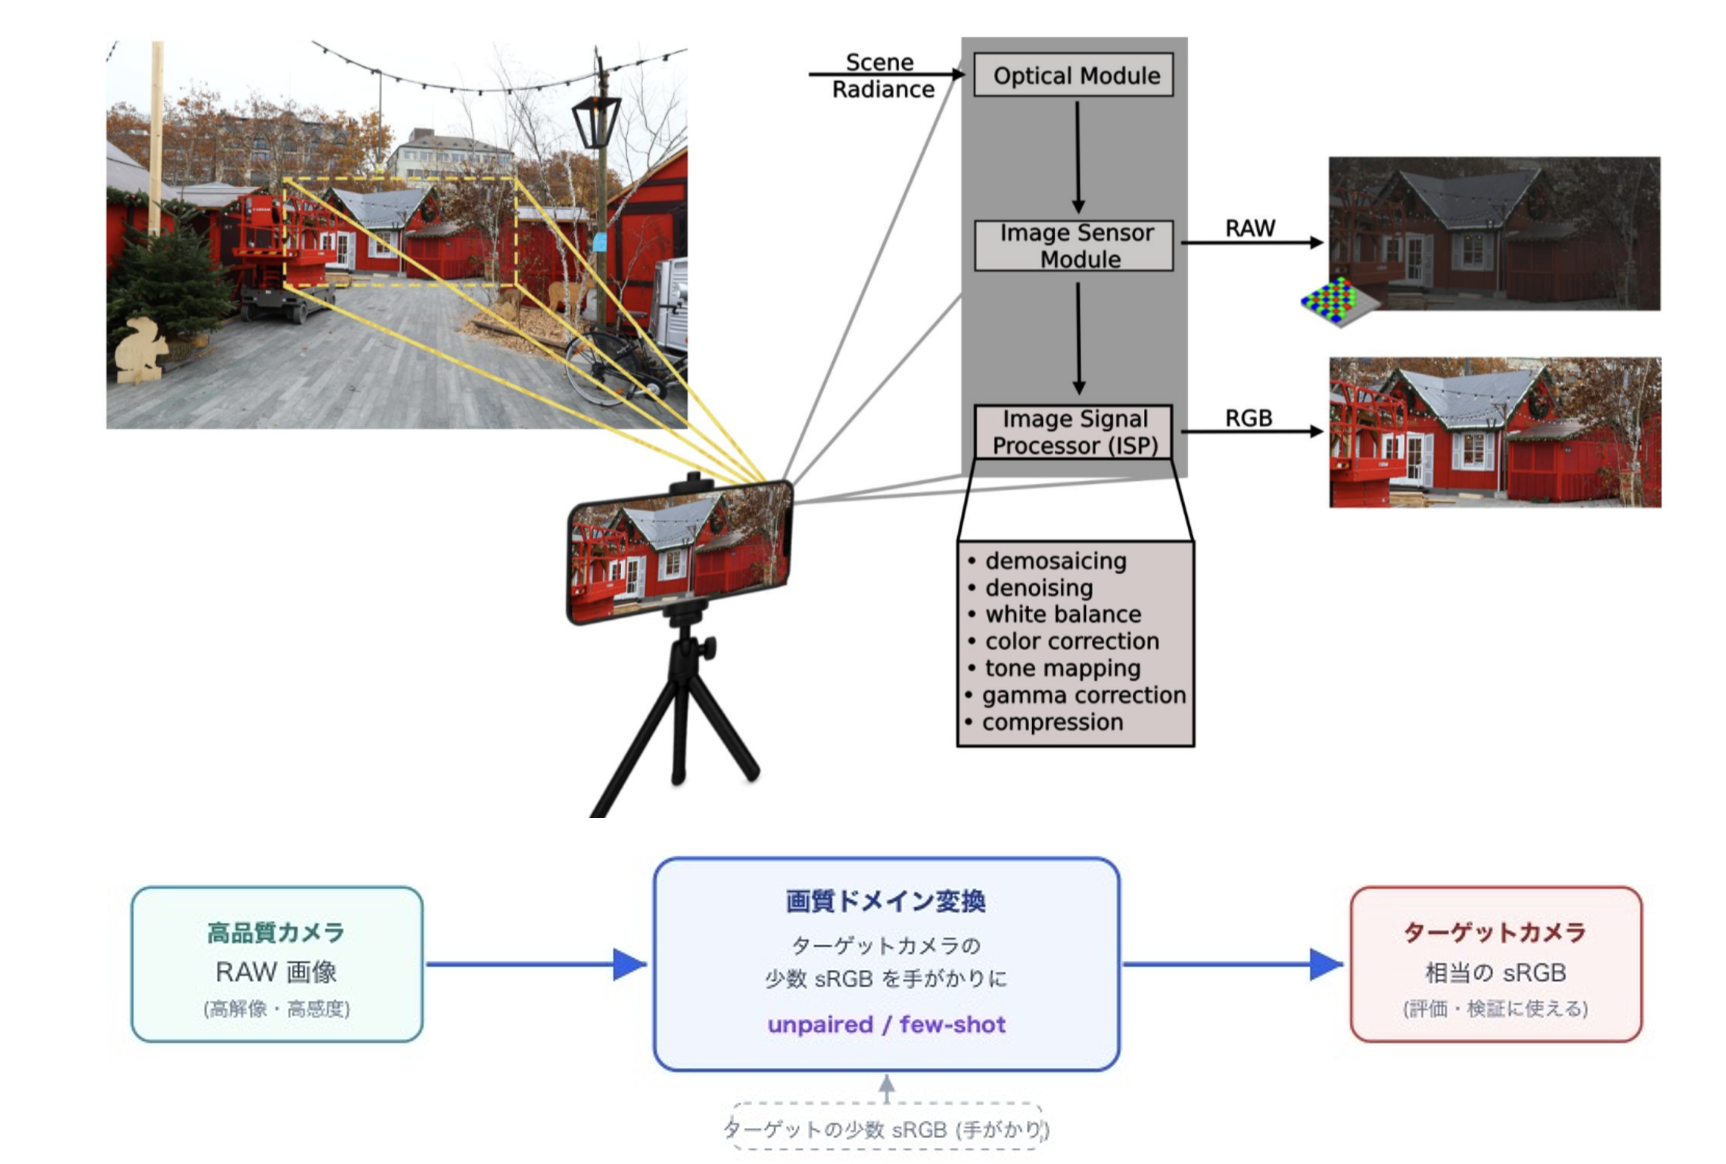
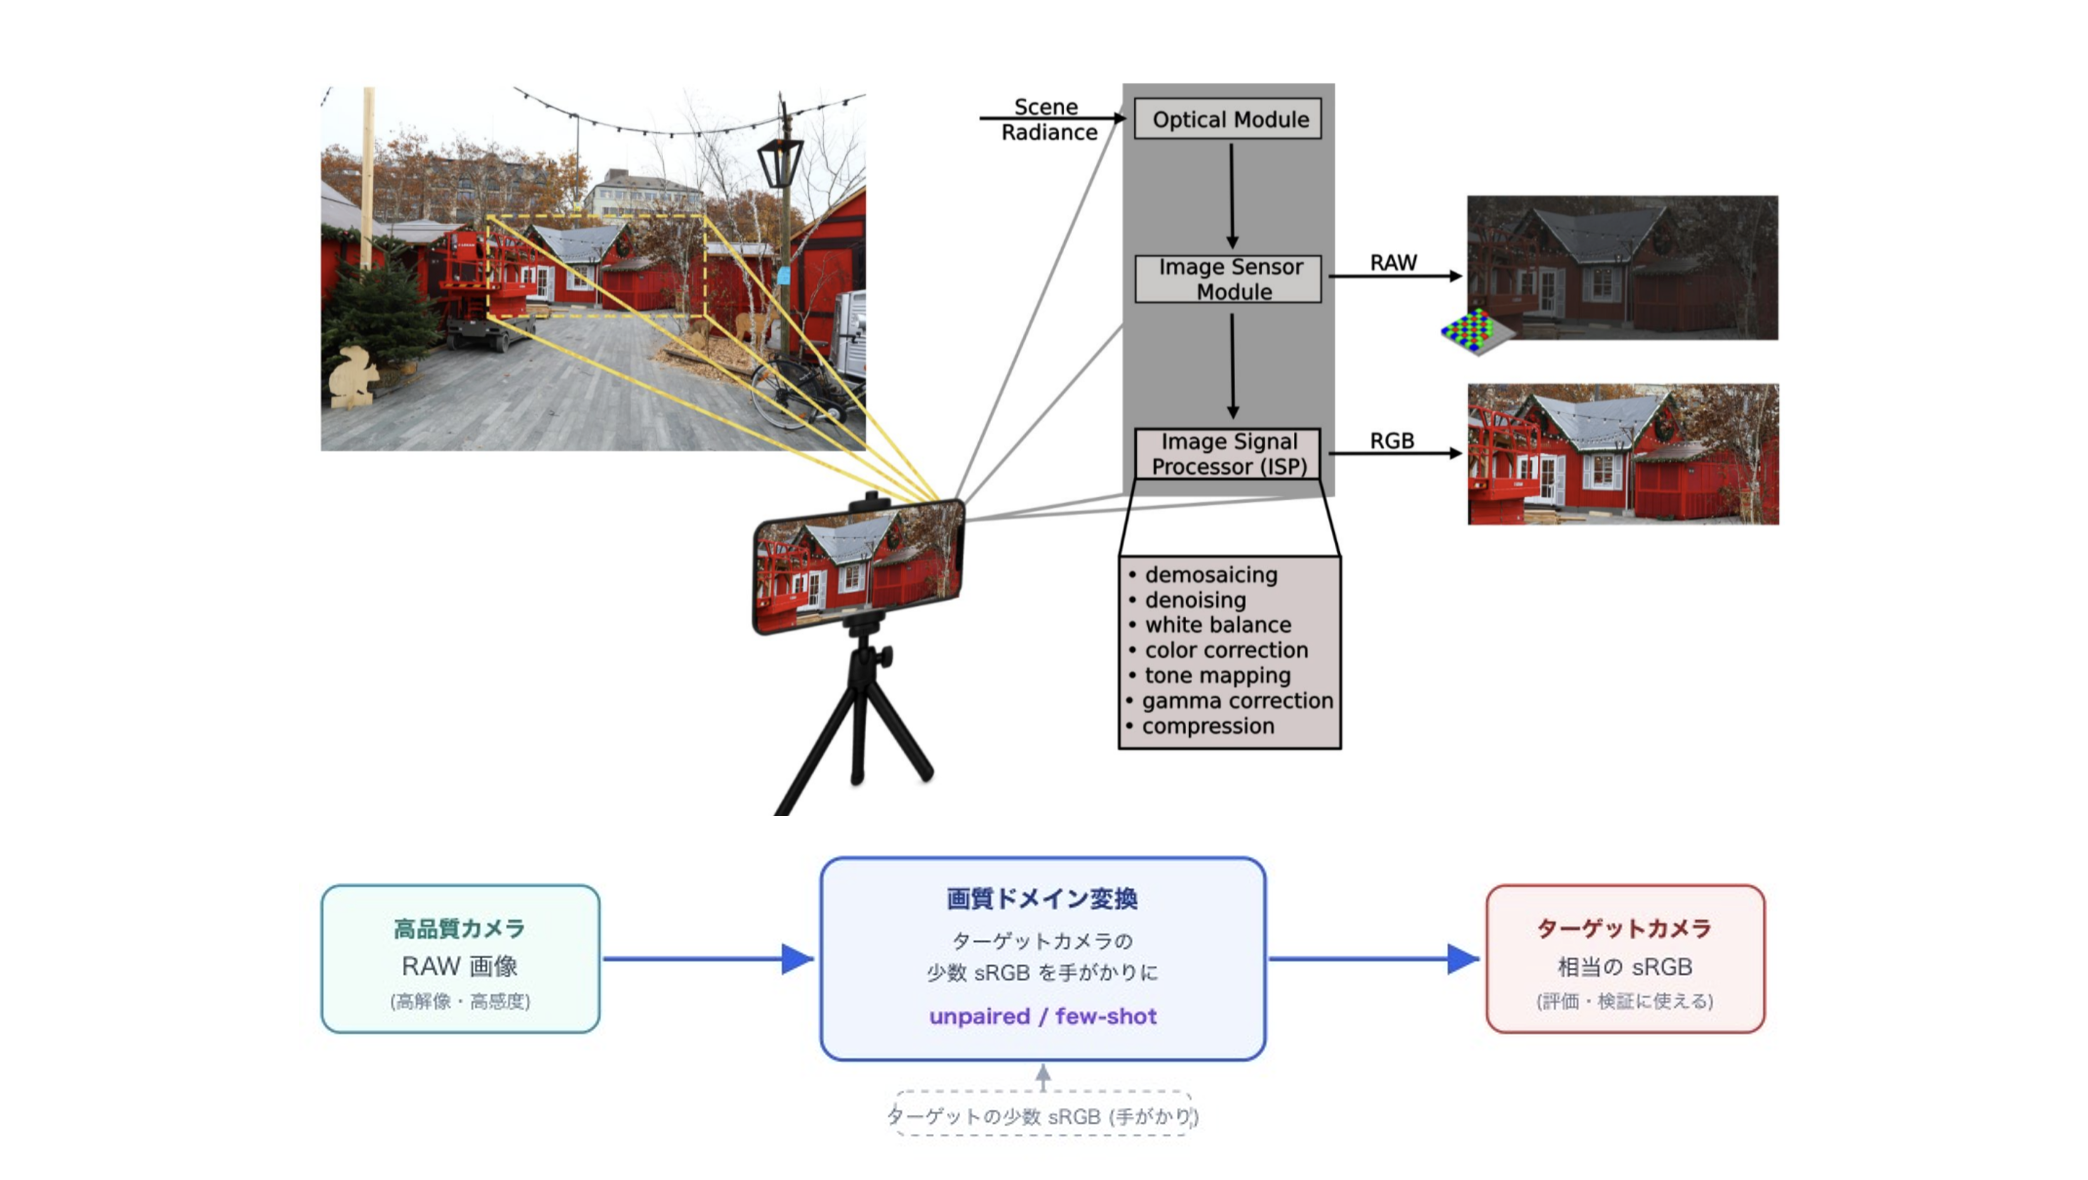
Update CameraBridge ISP image and refresh cached reference

Changed region(s): [[0.0614, 0.0309, 0.9826, 0.7113], [0.0614, 0.7113, 0.9519, 0.9897], [0.1842, 0.0309, 0.2149, 0.0619]]

diff --git a/index.html b/index.html
@@ -880,7 +880,7 @@
 
         <div class="project-card">
             <div class="project-image">
-                <img src="ISP.png" alt="CameraBridge cross-camera RAW-to-sRGB image quality translation overview" width="1726" height="1164" loading="lazy">
+                <img src="ISP.png?v=199d6f9" alt="CameraBridge cross-camera RAW-to-sRGB image quality translation overview" width="2088" height="1180" loading="lazy">
             </div>
             <div class="project-content">
                 <div class="project-title" data-i18n="works.cameraBridge.title">CameraBridge: カメラ間の画質ドメイン変換</div>
